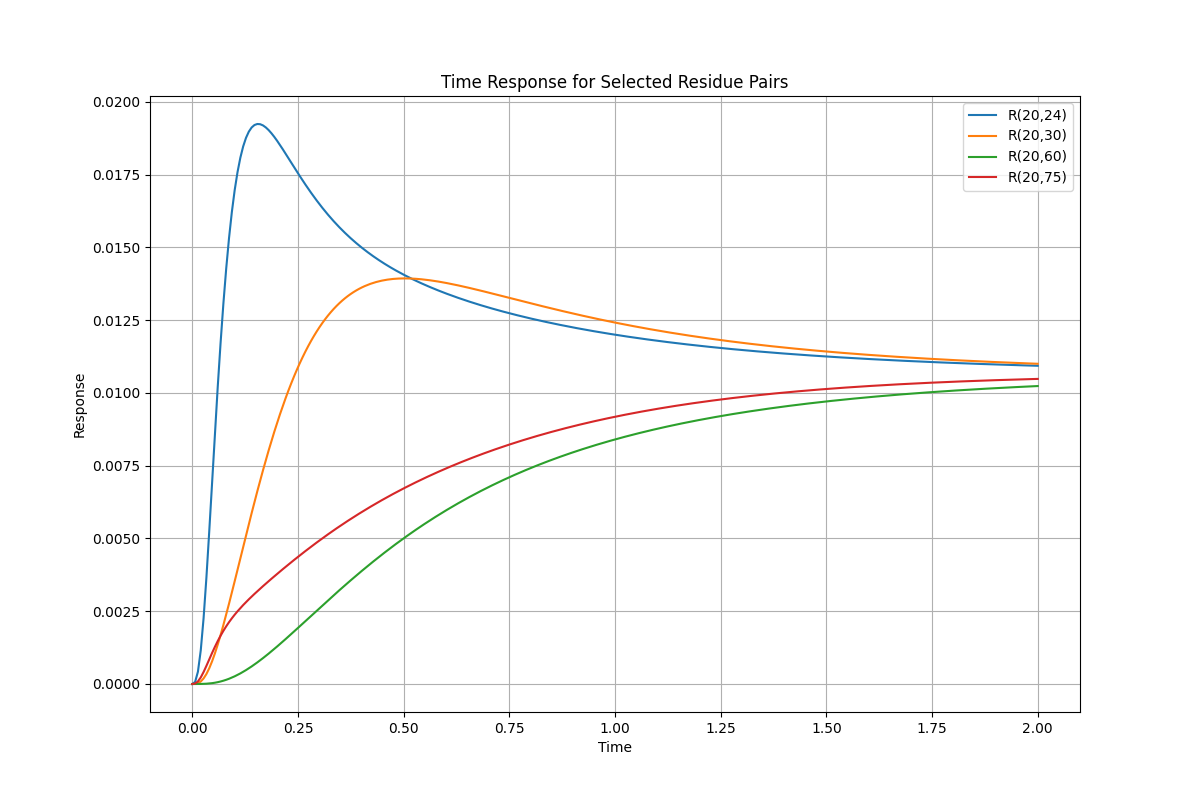
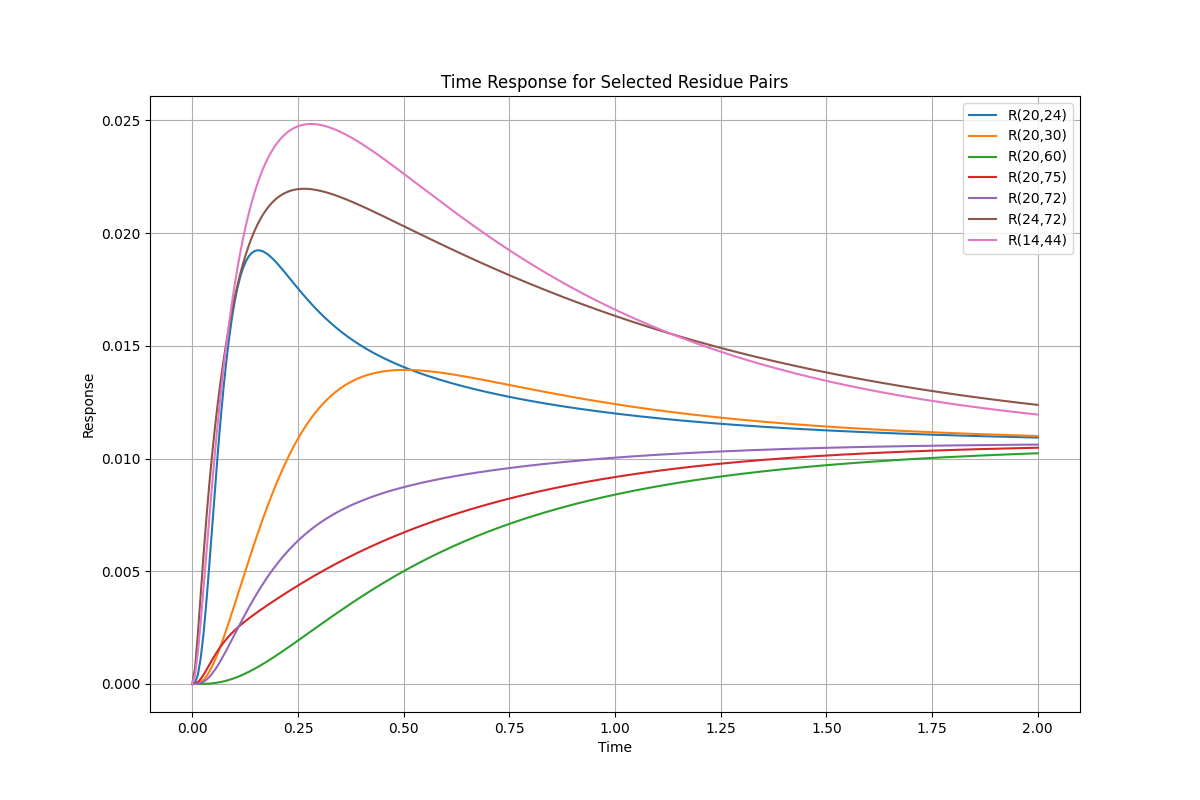
sdnjizjen

diff --git a/STATIC/causal_indicators_advances.py b/STATIC/causal_indicators_advances.py
@@ -569,14 +569,22 @@ class ResidualAnalysis(TimeCorrelation, TransferEntropy, TimeResponse, Correlati
         final = tempi[i, j]        
         return final
 
+    def compute_tempi_matrix_j_i(self,i,adjacency_matrix):
+        """Calcola la matrice di correlazione dei residui per tutti i j e per un intervallo di tempo specificato."""
+        n = self.u.shape[0]
+        residual_correlation_matrix = np.zeros((n, n))
+        for j in range(n):
+            residual_correlation_matrix[i, j] = self.calcolo_tempi(adjacency_matrix,j, i)
+        return 1/residual_correlation_matrix[i,:]
+    
 
-    def compute_tempi_matrix(self,i,adjacency_matrix):
+    def compute_tempi_matrix_i_j(self,i,adjacency_matrix):
         """Calcola la matrice di correlazione dei residui per tutti i j e per un intervallo di tempo specificato."""
         n = self.u.shape[0]
         residual_correlation_matrix = np.zeros((n, n))
         for j in range(n):
             residual_correlation_matrix[i, j] = self.calcolo_tempi(adjacency_matrix,i, j)
-        return residual_correlation_matrix[i,:]
+        return 1/residual_correlation_matrix[i,:]
     
 
     def compute_residual_correlation_matrix(self, t,i, time_idx):
@@ -597,7 +605,6 @@ class ResidualAnalysis(TimeCorrelation, TransferEntropy, TimeResponse, Correlati
         residual_correlation_matrix = np.zeros((n, n, len(t_subset)))
         for j in range(n):
             residual_correlation_matrix[i, j, :] = self.time_correlation_3(i, j, t_subset)
-        print(residual_correlation_matrix[i,:,:].shape)
         return residual_correlation_matrix[i,:,:]
     
     def compute_residual_transfer_entropy_matrix_donatore(self, t, i, time_idx):
@@ -622,9 +629,82 @@ class ResidualAnalysis(TimeCorrelation, TransferEntropy, TimeResponse, Correlati
                 transfer_entropy_matrix[i,j,:] = self.transfer_entropy(i, j, t_subset)
         return transfer_entropy_matrix[i,:,:]
 
-    def plot_time_matrix(self, i,adjacency_matrix):
-        residual_correlation_matrix = self.compute_tempi_matrix(i,adjacency_matrix)
-        self._plot_with_secondary_structure(residual_correlation_matrix, f'First mean time with i={i}', f'First mean time for i={i} as a function of j')
+    def plot_time_matrix_i_j(self, i,adjacency_matrix):
+        residual_correlation_matrix = self.compute_tempi_matrix_i_j(i,adjacency_matrix)
+        self._plot_with_secondary_structure(residual_correlation_matrix, f'Inverse first mean time with i={i}', f'Inverse first mean time for i={i} as a function of j')
+    
+    
+    def plot_time_matrix_i_j_plus_response(self, i,adjacency_matrix,t):
+        residual_correlation_matrix = self.compute_tempi_matrix_i_j(i,adjacency_matrix)
+        residual_correlation_matrix_2 = self.compute_residual_response_matrix(t, i,0)
+        self._plot_with_secondary_structure_and_overlay(residual_correlation_matrix,residual_correlation_matrix_2 , f'Inverse first mean time and response with i={i}', f'Inverse first mean time and response for i={i} as a function of j')
+    def plot_time_matrix_j_i_plus_response(self, i,adjacency_matrix,t):
+        residual_correlation_matrix = self.compute_tempi_matrix_j_i(i,adjacency_matrix)
+        residual_correlation_matrix_2 = self.compute_residual_response_matrix(t, i,0)
+        self._plot_with_secondary_structure_and_overlay(residual_correlation_matrix,residual_correlation_matrix_2 , f'Inverse first mean time and response with i={i}', f'Inverse first mean time and response for i={i} as a function of j')
+
+    def _plot_with_secondary_structure_and_overlay(self, matrix, overlay_matrix, ylabel, title):
+        sec_struct_info = self.sec_struct_data['Secondary Structure']
+        residue_ids = self.sec_struct_data['Residue ID'].astype(int)
+
+        # Colors only for 'H' (alpha-helix) and 'E' (beta-sheet)
+        colors = {'H': 'red', 'E': 'blue'}
+        sec_struct_colors = ['white'] * len(residue_ids)  # Default to white for all residues
+
+        # Assign colors to residues based on their secondary structure
+        for idx, rid in enumerate(residue_ids):
+            struct = sec_struct_info.get(rid, 'C')  # Default to 'C' if not found
+            if struct in colors:
+                sec_struct_colors[idx] = colors[struct]
+
+        plt.figure(figsize=(12, 8))
+        
+        # Plot the primary matrix
+        plt.plot(range(len(matrix)), matrix, marker='o', linestyle='-', alpha=0.7, label='Matrix')
+
+        # Plot the secondary matrix as an overlay with different style
+        plt.plot(range(len(overlay_matrix)), overlay_matrix, marker='x', linestyle='--', color='green', alpha=0.7, label='Overlay Matrix')
+
+        # Plot the secondary structure bands
+        current_color = 'white'
+        start_idx = 0
+        for idx, resid in enumerate(residue_ids):
+            if sec_struct_colors[idx] != current_color:
+                if idx > 0 and current_color in colors.values():
+                    plt.axvspan(start_idx, idx, color=current_color, alpha=0.2)
+                current_color = sec_struct_colors[idx]
+                start_idx = idx
+
+        # Plot the last segment
+        if current_color in colors.values():
+            plt.axvspan(start_idx, len(residue_ids), color=current_color, alpha=0.2)
+
+        # Create legend for secondary structure
+        legend_handles = [
+            mpatches.Patch(color='red', label='Helix (H)', alpha=0.2),
+            mpatches.Patch(color='blue', label='Beta sheet (E)', alpha=0.2)
+        ]
+        plt.legend(handles=legend_handles, loc='upper right')
+
+        # Create custom legend handles for matrices
+        handles = [mlines.Line2D([0], [0], color='green', lw=2, linestyle='--', marker='x', label='Overlay Matrix'),
+                mlines.Line2D([0], [0], color='black', lw=2, linestyle='-', marker='o', label='Matrix')]
+        
+        plt.legend(handles=handles + legend_handles, title='Structures and Data', loc='upper center', bbox_to_anchor=(0.5, 1.1), ncol=2)
+
+        plt.xlabel('Residue Index')
+        plt.ylabel(ylabel)
+        plt.grid(True)
+
+        if not os.path.exists(f'images/{self.name}/Time_indicators/'):
+            os.makedirs(f'images/{self.name}/Time_indicators/')
+        
+        # Save the figure
+        plt.savefig(f'images/{self.name}/Time_indicators/{title}.png')
+
+    def plot_time_matrix_j_i(self, i,adjacency_matrix):
+        residual_correlation_matrix = self.compute_tempi_matrix_j_i(i,adjacency_matrix)
+        self._plot_with_secondary_structure(residual_correlation_matrix, f'Inverse first mean time with i={i}', f'Inverse first mean time for i={i} as a function of j')
 
     def plot_residual_correlation_vs_j(self, i, t, time_idx):
         residual_correlation_matrix = self.compute_residual_correlation_matrix(t, i, time_idx)

diff --git a/STATIC/3LNX.py b/STATIC/3LNX.py
@@ -93,7 +93,9 @@ for i in range(len(lista)):
     residual_analysis.plot_residual_time_response_vs_j(i=lista[i], t=t, time_idx=time_idx)
     residual_analysis.plot_residual_transfer_entropy_vs_j_accettore(i=lista[i], t=t, time_idx=time_idx)
     residual_analysis.plot_residual_transfer_entropy_vs_j_donatore(i=lista[i], t=t, time_idx=time_idx)
-    residual_analysis.plot_time_matrix(i=lista[i],adjacency_matrix=adjacency_matrix)
+    residual_analysis.plot_time_matrix_i_j(i=lista[i],adjacency_matrix=adjacency_matrix)
+    residual_analysis.plot_time_matrix_j_i(i=lista[i],adjacency_matrix=adjacency_matrix)
+    residual_analysis.plot_time_matrix_i_j_plus_response(i=lista[i],adjacency_matrix=adjacency_matrix,t=t)
 #residual_analysis.plot_mean_quantity_over_segment(lista, t, time_idx,'correlation')#'correlation','linear_response','entropy'
 #residual_analysis.plot_mean_quantity_over_segment(lista, t, time_idx,'linear_response')
 #residual_analysis.plot_mean_quantity_over_segment(lista, t, time_idx,'entropy')
@@ -106,14 +108,16 @@ for i in range(len(lista)):
     residual_analysis.plot_residual_time_response_vs_j(i=lista[i], t=t, time_idx=time_idx)
     residual_analysis.plot_residual_transfer_entropy_vs_j_accettore(i=lista[i], t=t, time_idx=time_idx)
     residual_analysis.plot_residual_transfer_entropy_vs_j_donatore(i=lista[i], t=t, time_idx=time_idx)
-    residual_analysis.plot_time_matrix(i=lista[i],adjacency_matrix=adjacency_matrix)
+    residual_analysis.plot_time_matrix_i_j(i=lista[i],adjacency_matrix=adjacency_matrix)
+    residual_analysis.plot_time_matrix_j_i(i=lista[i],adjacency_matrix=adjacency_matrix)
+    residual_analysis.plot_time_matrix_i_j_plus_response(i=lista[i],adjacency_matrix=adjacency_matrix,t=t)
 
 #residual_analysis.plot_mean_quantity_over_segment(lista, t, time_idx,'correlation')#'correlation','linear_response','entropy'
 #residual_analysis.plot_mean_quantity_over_segment(lista, t, time_idx,'linear_response')
 #residual_analysis.plot_mean_quantity_over_segment(lista, t, time_idx,'entropy')
 te_matrix, segments = analyze_secondary_structure_transfer_entropy(stringa, raggio, tau_mean)
 
-residue_pairs = [(20, 24),(20, 30), (20, 60), (20, 75)]
+residue_pairs = [(20, 24),(20, 30), (20, 60), (20, 75),(20,72),(24,72),(14,44)]
 t = np.linspace(0., 2, 300) 
 plot_time_response_multiple(time_response, residue_pairs, t, 'Time Response for Selected Residue Pairs',name=stringa)
 
